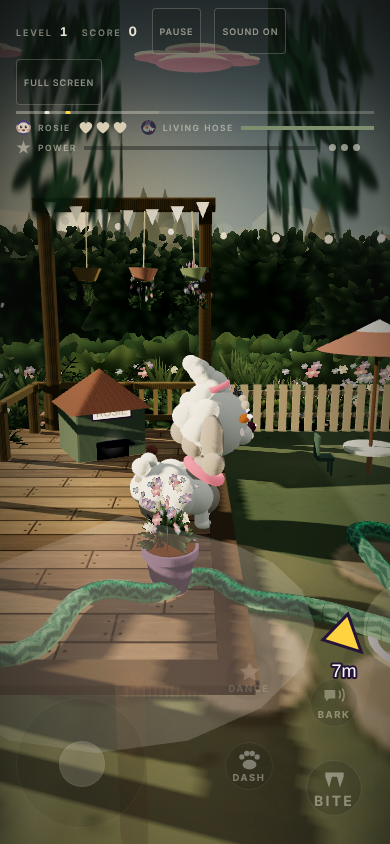
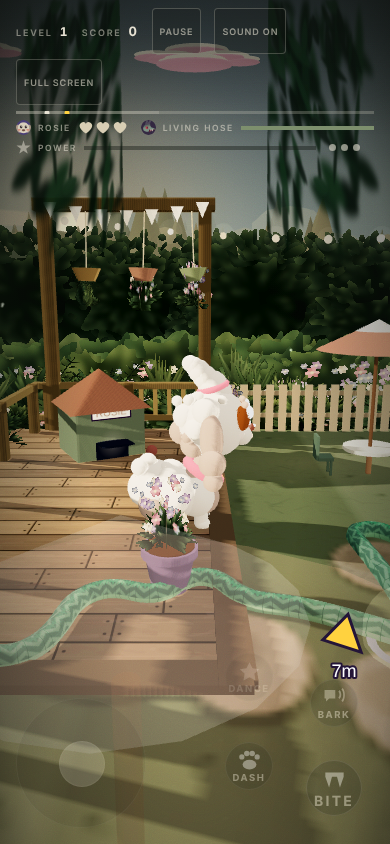
chore: checkpoint Rosie's face after the eye-glint fix
Refs: design/art/title-and-expressions.md

Claude-Session: https://claude.ai/code/session_01JR8fsw3Uh5kViP8MJWMfnz

diff --git a/src/index.html b/src/index.html
@@ -1846,7 +1846,7 @@ const boneM=M('#fffaf0',{roughness:.4,emissive:'#554422'}),treat3=[0,1,2].map(()
 const WHITE=new THREE.Color('#ffffff'),WETC=new THREE.Color('#b9dcf5');
 /* wardrobe 2.2: FURC/FURS are captured by the wet lerp in render3D, so wFur() rebuilds them -- without this Rosie snaps back to cream the moment she gets wet */
 let FURC=new THREE.Color('#fff3dd').convertSRGBToLinear(),FWET=new THREE.Color('#a9c4d2').convertSRGBToLinear(),FURS=new THREE.Color('#c7ae9c').convertSRGBToLinear();
-const furM=M('#fff3dd',{roughness:.92}),furS=M('#c7ae9c',{roughness:.92}),collarM=M('#d9859c'),peachM=M('#f3d9c6',{roughness:.8}),noseM=M('#7a4e42',{roughness:.25}),eyeM=M('#2a1a22',{roughness:.05}),irisM=M('#7a4a24'),glintM=new THREE.MeshBasicMaterial({color:'#ffffff'}),glint3M=new THREE.MeshBasicMaterial({color:'#ffd9b0',transparent:true,opacity:.35});
+const furM=M('#fff3dd',{roughness:.92}),furS=M('#c7ae9c',{roughness:.92}),collarM=M('#d9859c'),peachM=M('#f3d9c6',{roughness:.8}),noseM=M('#7a4e42',{roughness:.25}),eyeM=M('#2a1a22',{roughness:.05}),irisM=M('#6e4122'),glintM=new THREE.MeshBasicMaterial({color:'#ffffff'}),glint3M=new THREE.MeshBasicMaterial({color:'#ffd9b0',transparent:true,opacity:.35});
 /* art v2 item 4: big round head (about 60% of her), few fat curls, wide readable eyes. Curl placement is a fixed spiral, not r2(). */
 {for(let i=0;i<24;i++){r2();r2();r2();}for(let i=0;i<46;i++){const a=r2()*Math.PI*2,b=(r2()-.3)*Math.PI*.9;if(Math.cos(a)*Math.cos(b)>.42&&Math.sin(b)<.45)continue;r2();}for(let i=0;i<14;i++){r2();r2();r2();}} /* spend the draft's r2() draws so the seeded scenery built after Rosie stays where it was */
 const dog=grp(scene),dogP=grp(dog),dBody=grp(dogP);
@@ -1873,7 +1873,7 @@ sph(dHead,peachM,5,39,-16,0,1,.85,1.4,false);
 sph(dHead,noseM,6.0,41,-7,0,.8,.72,1.1,false);sph(dHead,glintM,1.8,45.2,-4.6,1.8,1,1,1,false);
 /* art v3 item 6: bigger eye, warm amber iris as a visible ring, and three glints -- sun catch,
    secondary, and a soft bounce-light crescent on the lower-inner rim. */
-const dEyes=[1,-1].map(s=>{const e=sph(dHead,irisM,13,31,7,s*17,.62,1.0,1.06,false);sph(e,eyeM,.74,.2,0,0,1,1,1,false);sph(e,glintM,.54,.95,.52,s*.30,1,1,1,false);sph(e,glintM,.21,1,-.45,-s*.30,1,1,1,false);sph(e,glint3M,.28,.92,-.55,.10,1,1,1,false);return e;});
+const dEyes=[1,-1].map(s=>{const e=sph(dHead,irisM,13,31,7,s*17,.62,1.0,1.06,false);sph(e,eyeM,.80,.2,0,0,1,1,1,false);sph(e,glintM,.22,.95,.52,s*.30,1,1,1,false);sph(e,glintM,.105,1,-.45,-s*.30,1,1,1,false);sph(e,glint3M,.15,.92,-.55,.10,1,1,1,false);return e;});
 const EYE_X=13*.62,EYE_Y=13*1.0,EYE_Z=13*1.06; /* base scale: sph() bakes radius into scale, so the expression loop rebuilds all three axes */
 const dBlush=[1,-1].map(s=>sph(dHead,MB('#f59b85',.18),6,29.5,-9,s*24,.4,.62,1.25,false)); /* MB() per side: the expression vector drives opacity */
 /* neck: distinctly smaller than the head and in the shade tone, with the collar as a band across it -- this is what separates head from body from behind */
@@ -1916,13 +1916,13 @@ let browS=0,happyT=0,rearK=0,rearU=0,rearDir=-1,rearHold=0;
    The doc's eye 'x' is applied to the eye's Z axis, which is the visible width at this camera; the
    X axis only flattens the bead into the head and reads as nothing. */
 const EXPR={
- bright:   [1.00,1.00,.74, 0.00,0.00, 0.00, 0.00,0.00,0.00,.18],
- panting:  [ .80,1.00,.74,-0.06,0.00, 0.10,-0.08,0.55,1.00,.30],
- determined:[.62,1.00,.62, 0.10,0.00,-0.55,-0.14,0.70,0.00,.14],
- startled: [1.22,1.10,.52, 0.05,0.00, 0.60, 0.55,0.35,0.00,.35],
- dizzy:    [ .42,1.00,.74, 0.00,0.18,-0.30,-0.04,0.40,1.00,.55],
- fierce:   [ .70,1.00,.58, 0.00,0.00,-0.75,-0.18,0.85,1.00,.20],
- delighted:[ .35,1.00,.74, 0.00,0.00, 0.35, 0.14,0.95,1.25,.45]};
+ bright:   [1.00,1.00,.80, 0.00,0.00, 0.00, 0.00,0.00,0.00,.18],
+ panting:  [ .80,1.00,.80,-0.06,0.00, 0.10,-0.08,0.55,1.00,.30],
+ determined:[.62,1.00,.70, 0.10,0.00,-0.55,-0.14,0.70,0.00,.14],
+ startled: [1.22,1.10,.62, 0.05,0.00, 0.60, 0.55,0.35,0.00,.35],
+ dizzy:    [ .42,1.00,.80, 0.00,0.18,-0.30,-0.04,0.40,1.00,.55],
+ fierce:   [ .70,1.00,.66, 0.00,0.00,-0.75,-0.18,0.85,1.00,.20],
+ delighted:[ .35,1.00,.80, 0.00,0.00, 0.35, 0.14,0.95,1.25,.45]};
 const exC=EXPR.bright.slice();let exName='bright',exTau=.12,exHold=0,exForce=null;
 /* test hook: /expression verification drives a face directly instead of waiting for the game to make one */
 window.__EXPR=function(n){exForce=n&&EXPR[n]?n:null;return exName;};
